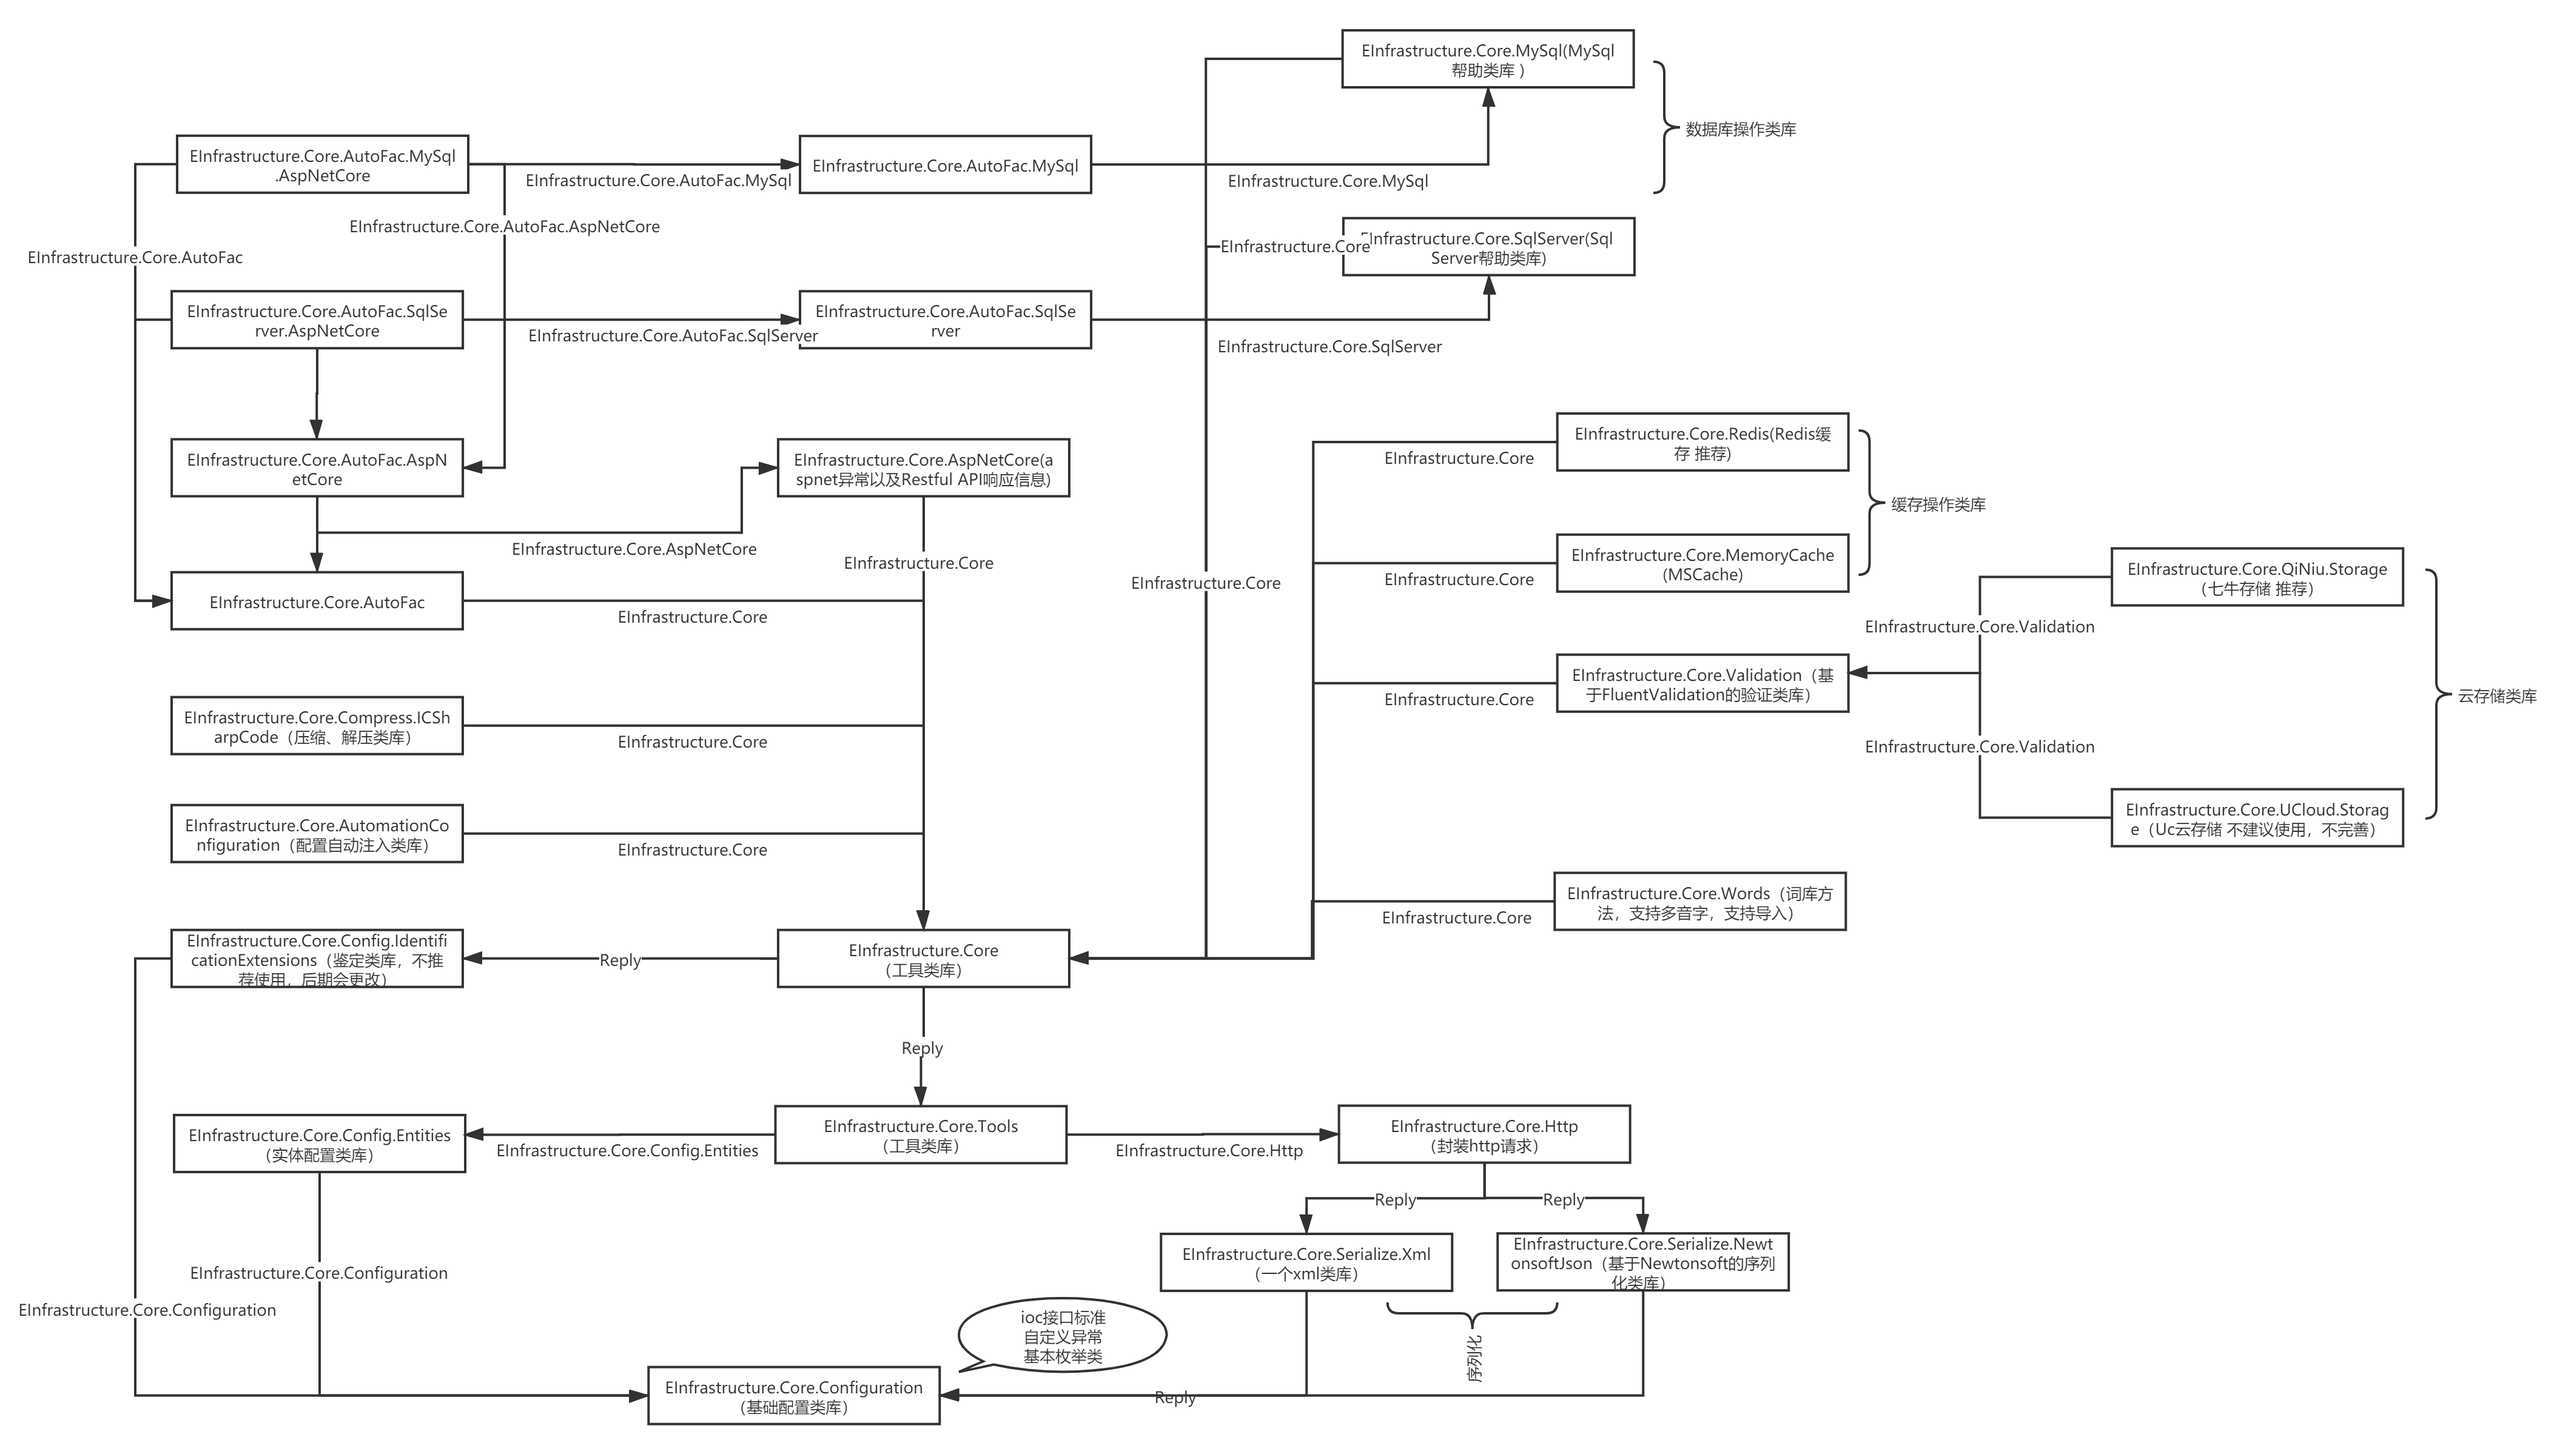
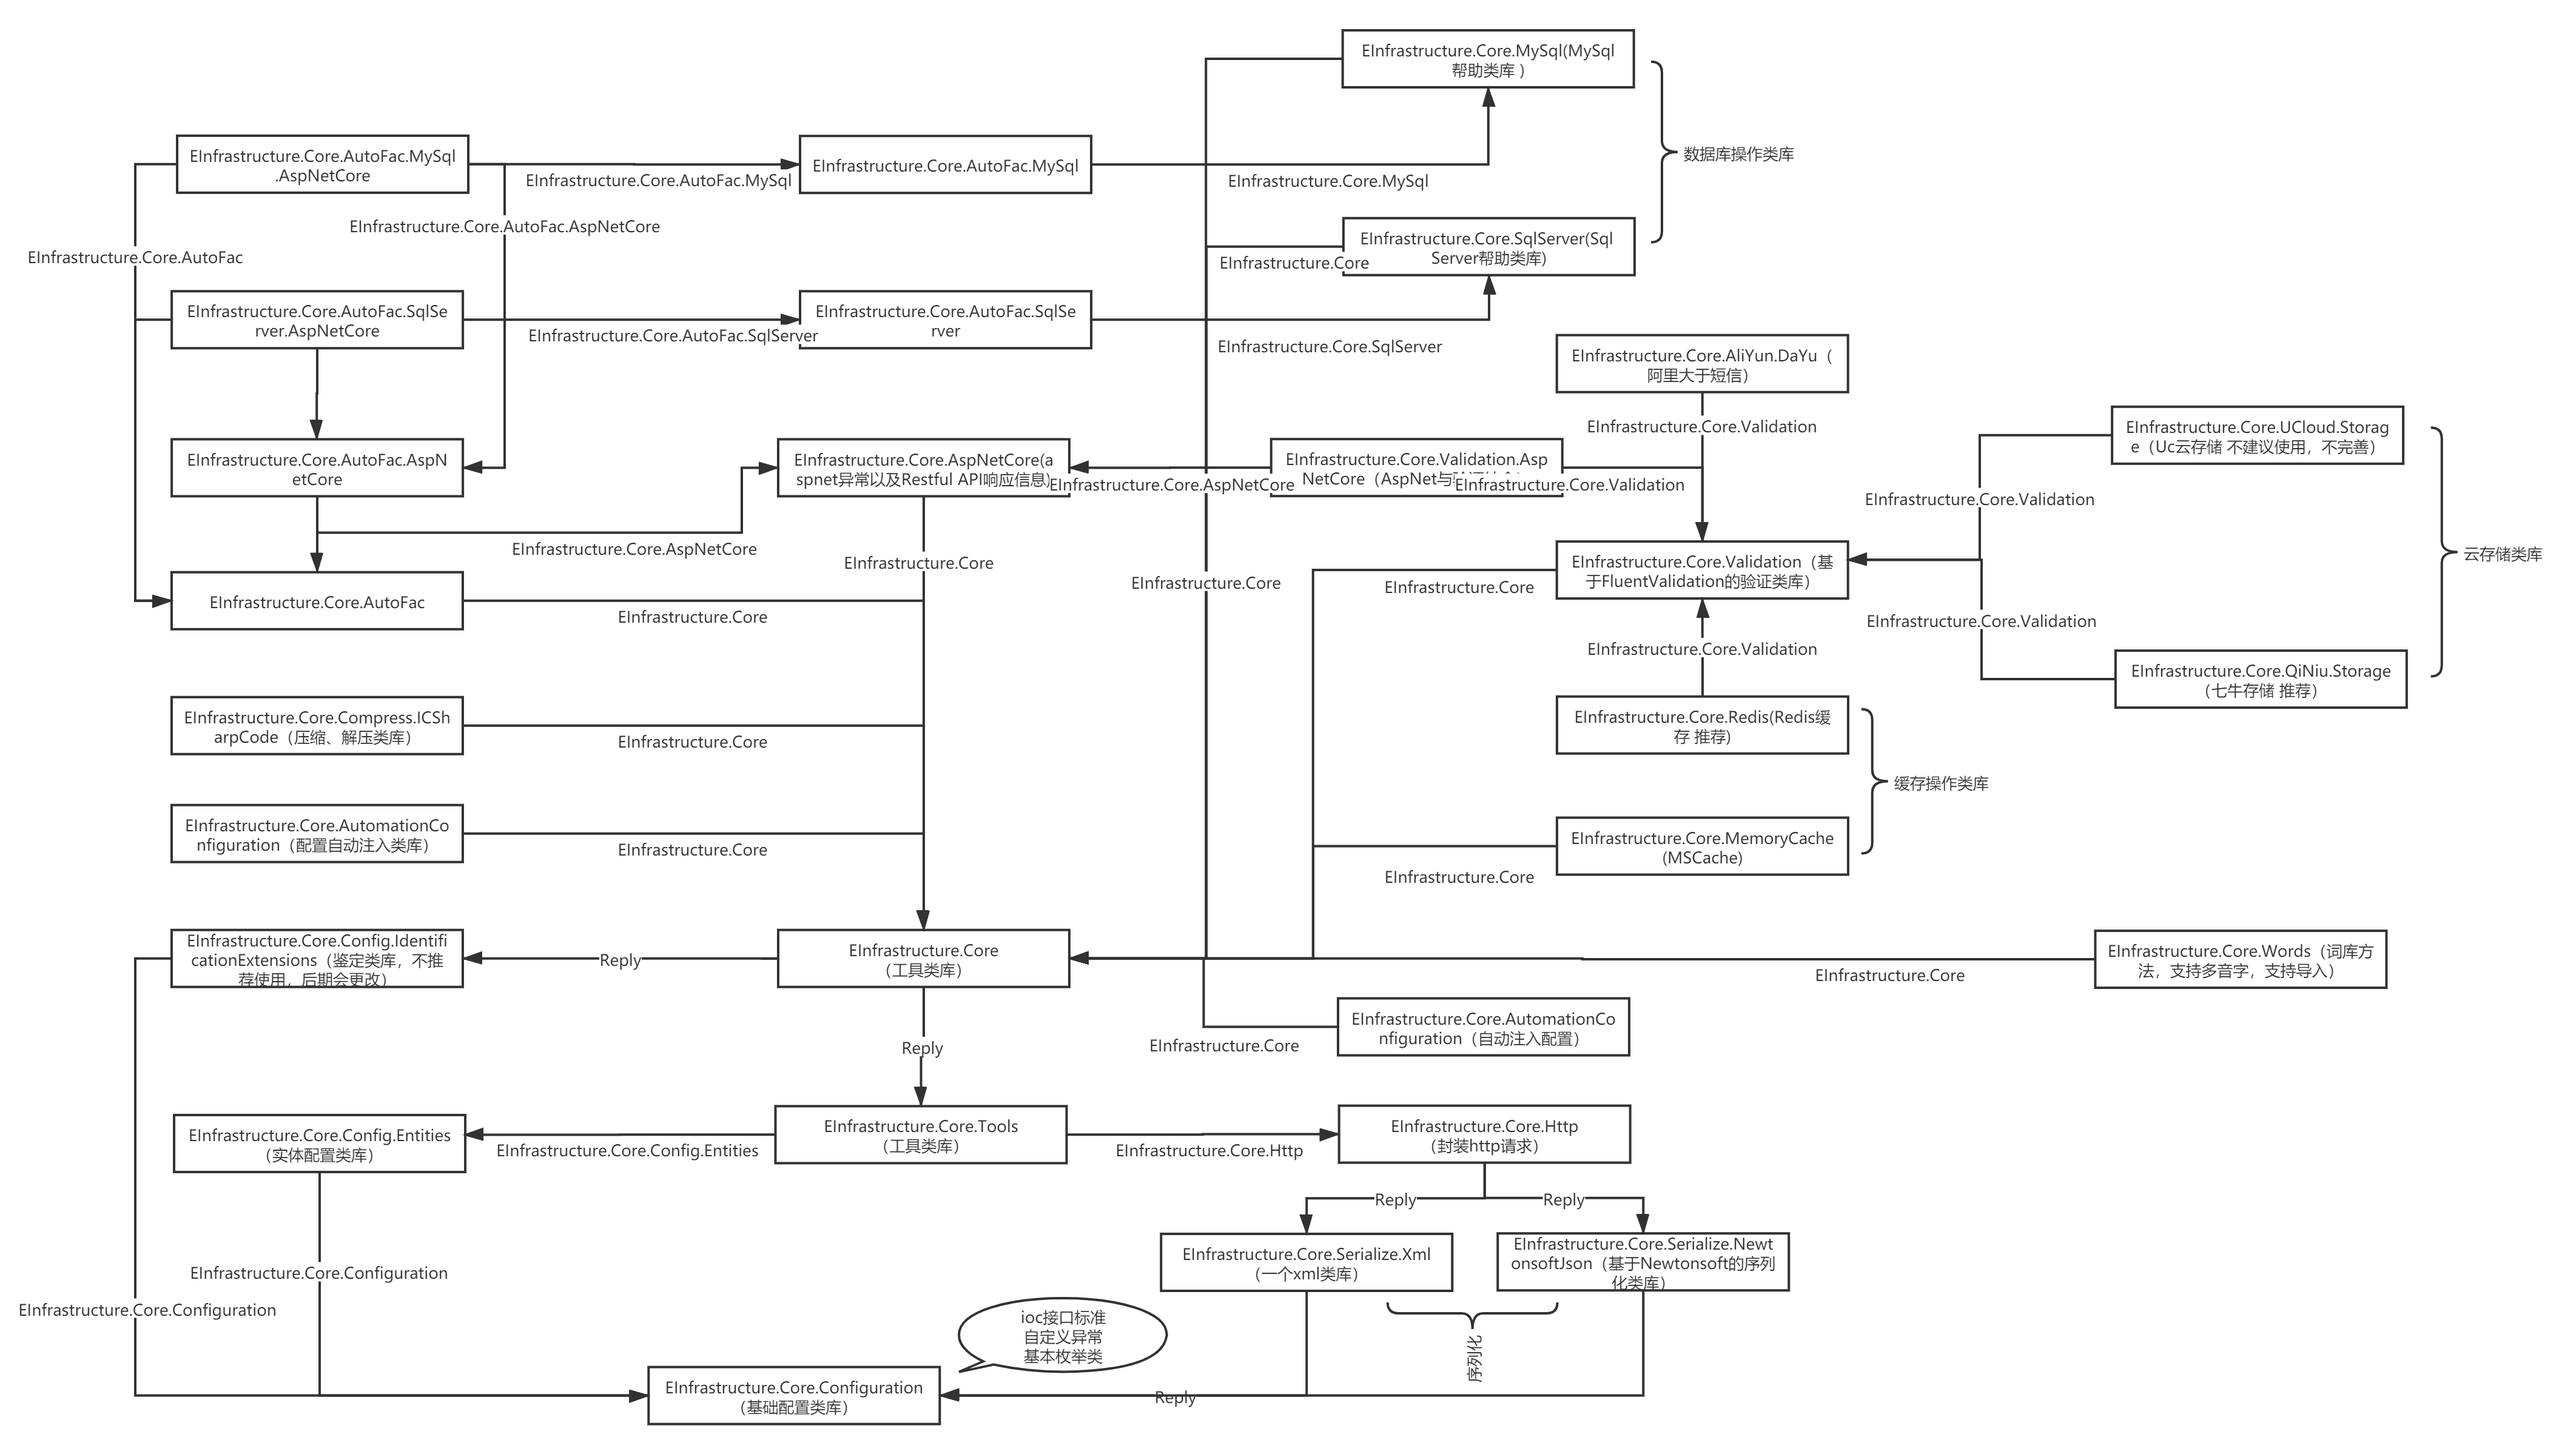
修改依赖图以及阿里大于文档

diff --git a/zh-cn/_aliDaYu.md b/zh-cn/_aliDaYu.md
@@ -5,7 +5,49 @@
 [![NuGet](https://img.shields.io/nuget/v/EInfrastructure.Core.AliYun.DaYu.svg?style=flat-square)](https://www.nuget.org/packages/EInfrastructure.Core.AliYun.DaYu)
 [![NuGet Download](https://img.shields.io/nuget/dt/EInfrastructure.Core.AliYun.DaYu.svg?style=flat-square)](https://www.nuget.org/packages/EInfrastructure.Core.AliYun.DaYu)
 
-## 在NetCore下通过IOC注入使用配置：
+## 通过IOC注入使用配置
+
+### 在NetCore下使用
+
+    方法一（推荐）：
+        1. 如果与Mysql数据库结合使用，则引入EInfrastructure.Core.AutoFac.MySql.AspNetCore
+
+            services.AddAliDaYu(()=>{
+                return new AliSmsConfig(){
+                    SignName="签名名称",
+                    AccessKey="AccessKey ID",
+                    EncryptionKey="秘钥参数",
+                };
+            });
+            new EInfrastructure.Core.AutoFac.MySql.AspNetCore.AutofacAutoRegister().Build(
+                    services,
+                    (builder) => { });
+
+        2. 如果与SQLServer数据库结合使用，则引入EInfrastructure.Core.AutoFac.SqlServer.AspNetCore
+
+            services.AddAliDaYu(()=>{
+                return new AliSmsConfig(){
+                    SignName="签名名称",
+                    AccessKey="AccessKey ID",
+                    EncryptionKey="秘钥参数",
+                };
+            });
+            new EInfrastructure.Core.AutoFac.SqlServer.AspNetCore.AutofacAutoRegister().Build(
+                    services,
+                    (builder) => { });
+
+        3. 如果不使用数据库，则引入EInfrastructure.Core.AutoFac.AspNetCore
+
+            services.AddAliDaYu(()=>{
+                return new AliSmsConfig(){
+                    SignName="签名名称",
+                    AccessKey="AccessKey ID",
+                    EncryptionKey="秘钥参数",
+                };
+            });
+            new EInfrastructure.Core.AutoFac.AspNetCore.AutofacAutoRegister().Build(
+                    services,
+                    (builder) => { });
 
 
     方法二：
@@ -27,6 +69,7 @@
         EInfrastructure.Core.Serialize.Xml.StartUp.Run(false);
     }
 
+
     之后在控制器中可以：
 
     public class CheckController : Controller
@@ -45,5 +88,68 @@
             _smsProvider.Send("13653217777","SMS_*******",new {content="内容"},(res)=>{
                 //响应失败原因
             });
+
+            _smsProvider.Send(new List<string>(){"13653217777","13654857777"},"SMS_*******",new {content="内容"},(res)=>{
+                //响应失败原因
+            });
         }
     }
+
+### 在控制台应用程序下使用IOC注入
+
+    多引入类库EInfrastructure.Core.AutoFac
+
+    public IServiceProvider GetServiceProvider(){
+        IConfigurationBuilder Configuration = new ConfigurationBuilder();
+        IConfigurationRoot configuration = Configuration.SetBasePath(Directory.GetCurrentDirectory())
+            .AddJsonFile("appsettings.json", optional: false, reloadOnChange: true)
+            .AddEnvironmentVariables().Build();
+        IServiceCollection services = new ServiceCollection();
+        Assembly[] assembly = AppDomain.CurrentDomain.GetAssemblies();
+        services.AddAliDaYu(()=>{
+                return new AliSmsConfig(){
+                    SignName="签名名称",
+                    AccessKey="AccessKey ID",
+                    EncryptionKey="秘钥参数",
+                };
+            });
+        return new EInfrastructure.Core.AutoFac.AutofacAutoRegister().Build(
+                services,
+                (builder) => { });
+    }
+
+    public static void Main(){
+        var provider=GetServiceProvider().GetService<ISmsProvider>();
+        provider.Send("13653217777","SMS_*******",new {content="内容"},(res)=>{
+            //响应失败原因
+        });
+
+        provider.Send(new List<string>(){"13653217777","13654857777"},"SMS_*******",new {content="内容"},(res)=>{
+            //响应失败原因
+        });
+    }
+
+
+## 传统模式下（非IOC使用）：
+    
+    需要引入EInfrastructure.Core.Serialize.NewtonsoftJson、EInfrastructure.Core.Serialize.Xml后配置
+
+    var smsProvider=new SmsProvider(new AliSmsConfig(){
+        SignName="签名",
+        AccessKey="AccessKey ID",
+        EncryptionKey="秘钥参数"
+    },List<IJsonProvider>()
+    {
+        new NewtonsoftJsonProvider()
+    }, new List<IXmlProvider>()
+    {
+        new XmlProvider()
+    });
+
+    smsProvider.Send("13653217777","SMS_*******",new {content="内容"},(res)=>{
+        //响应失败原因
+    });
+
+    smsProvider.Send(new List<string>(){"13653217777","13654857777"},"SMS_*******",new {content="内容"},(res)=>{
+        //响应失败原因
+    });

diff --git a/zh-cn/_sidebar.md b/zh-cn/_sidebar.md
@@ -5,4 +5,6 @@
   * [基础方法类库](/zh-cn/_tools.md)
   * [HTTP类库](/zh-cn/_http.md)
   * [基础方法类库扩展](/zh-cn/_common.md)
+  * [阿里短信类库扩展](/zh-cn/_aliDaYu.md)
+
 
